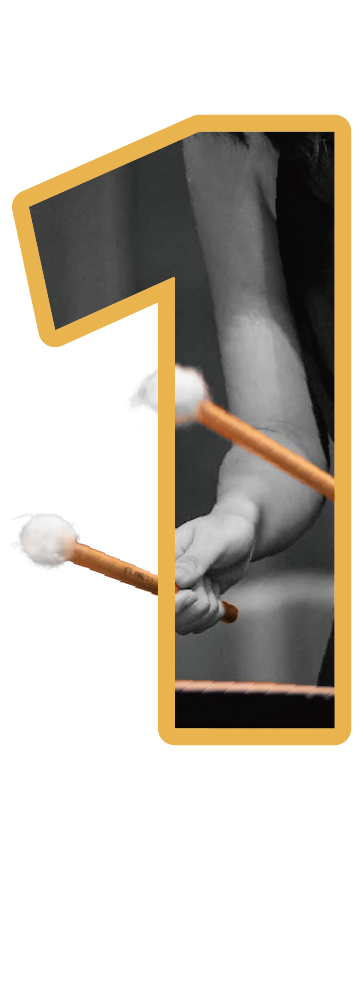
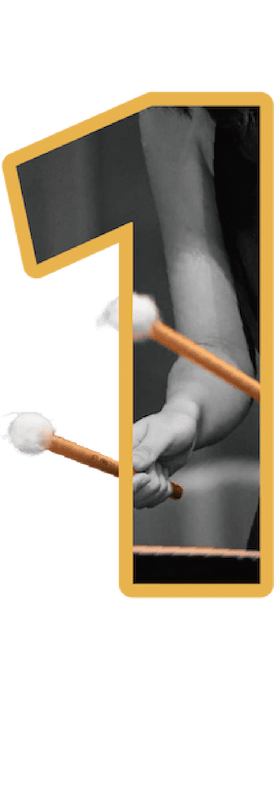
[feat] view and images

diff --git a/src/views/HomeView/HomeView.vue b/src/views/HomeView/HomeView.vue
@@ -18,7 +18,7 @@ const storeGoogle = useGoogle()
   <!-- loading -->
   <div
     v-show="storeGoogle.isFetching"
-    class="fixed left-0 top-0 w-screen h-screen flex justify-center items-center bg-gray-900 bg-opacity-80 backdrop-blur z-50"
+    class="fixed left-0 top-0 w-screen h-screen flex justify-center items-center bg-white bg-opacity-80 backdrop-blur z-50"
   >
     <div>
       <span class="loading loading-ring loading-lg"></span>
@@ -28,36 +28,64 @@ const storeGoogle = useGoogle()
   <div class="fixed z-[-1] left-0 top-0 w-screen h-screen">
     <img src="/background-sheet.jpg" class="object-cover h-full w-full opacity-5" alt="" />
   </div>
-  <div class="flex justify-center">
-    <main class="overflow-x-hidden relative max-w-lg">
-      <div class="mb-60">
-        <img src="/cover.jpg" alt="" />
+  <div class="flex justify-center overflow-x-hidden">
+    <main class="relative max-w-lg">
+      <div class="relative">
+        <div class="container my-40 px-4 flex flex-nowrap gap-2 relative">
+          <div class="w-[22.6%]">
+            <img class="aspect-[274/800]" src="/landing-images/main_head_title-1.png" alt="1" />
+          </div>
+          <div class="w-[33%]">
+            <img class="aspect-[400/800]" src="/landing-images/main_head_title-2.png" alt="2" />
+          </div>
+          <div class="w-[44.3%]">
+            <img class="aspect-[536/800]" src="/landing-images/main_head_title-3.png" alt="輯" />
+          </div>
+          <div class="absolute left-0 bottom-6 w-[43%] ml-[60px]">
+            <img src="/landing-images/web-demo_subtitle.svg" alt="" />
+          </div>
+        </div>
+        <div class="absolute right-0 top-0 w-[300px] translate-x-1/4 -translate-y-full">
+          <img class="" src="/landing-images/web-demo_circle-4.svg" alt="" />
+        </div>
+        <div class="absolute -right-28 top-1/2 w-[100px] -translate-y-1/2">
+          <img class="" src="/landing-images/web-demo_circle-3.svg" alt="" />
+        </div>
+        <div class="absolute -left-12 bottom-0 w-[300px] -translate-x-3/4 translate-y-3/4">
+          <img class="" src="/landing-images/web-demo_circle-1.svg" alt="" />
+        </div>
       </div>
-      <div class="container space-y-60">
+      <div class="container max-w-[100vw] space-y-60">
         <section :id="storeNav.getSection('intro').hash" class="space-y-24">
-          <div>
-            <p class="opacity-70 text-9xl text-gray-700 font-bold relative top-8 -left-4 z-10">
+          <div class="marquee-container">
+            <p
+              class="marquee-content opacity-70 text-9xl text-yellow11 font-bold relative top-8 z-10"
+            >
               Staff
             </p>
-            <h2 class="text-7xl font-bold italic text-gray-300 relative z-20">演出人員</h2>
+            <h2 class="text-7xl font-bold italic text-yellow11 relative z-20">演出人員</h2>
           </div>
           <SectionIntro />
         </section>
         <section :id="storeNav.getSection('repertoire').hash" class="space-y-24">
-          <div>
-            <p class="opacity-70 text-9xl text-gray-700 font-bold relative top-8 -left-4 z-10">
+          <div class="marquee-container">
+            <p
+              class="marquee-content opacity-70 text-9xl text-yellow11 font-bold relative top-8 z-10"
+            >
               Repertoire
             </p>
-            <h2 class="text-7xl font-bold italic text-gray-300 relative z-20">演出曲目</h2>
+            <h2 class="text-7xl font-bold italic text-yellow11 relative z-20">演出曲目</h2>
           </div>
           <SectionRepertoire />
         </section>
         <section :id="storeNav.getSection('about').hash" class="space-y-24">
-          <div>
-            <p class="opacity-70 text-9xl text-gray-700 font-bold relative top-8 -left-4 z-10">
+          <div class="marquee-container">
+            <p
+              class="marquee-content opacity-70 text-9xl text-yellow11 font-bold relative top-8 z-10"
+            >
               About
             </p>
-            <h2 class="text-7xl font-bold italic text-gray-300 relative z-20">關於我們</h2>
+            <h2 class="text-7xl font-bold italic text-yellow11 relative z-20">關於我們</h2>
           </div>
           <SectionAbout />
         </section>

diff --git a/src/views/HomeView/components/SectionAbout.vue b/src/views/HomeView/components/SectionAbout.vue
@@ -4,7 +4,7 @@ import IconInstagram from '/src/components/icon/IconInstagram.vue'
 </script>
 
 <template>
-  <div class="pb-24 space-y-8 text-gray-200">
+  <div class="pb-24 space-y-8 text-gray-800">
     <div>
       <img src="/people.jpg" class="w-full" alt="" />
     </div>
@@ -22,7 +22,7 @@ import IconInstagram from '/src/components/icon/IconInstagram.vue'
         十年流轉，團員屆數甚差二十屆次，但透過音樂的力量，讓年紀的距離在彼此的心中淡化。他們透過自由奔放的音符，在樂聲中編織出校友與學弟妹之間的共鳴，消除了跨世代交流的阻礙，讓每個樂曲添加了動人的色彩。
       </p>
     </div>
-    <div class="flex flex-col border-l border-white pl-4 text-lg space-y-2">
+    <div class="flex flex-col border-l border-yellow11 pl-4 text-lg space-y-2">
       <a class="gap-2" target="_blank" href="https://instagram.com/czjhawb/">
         <div class="flex gap-2">
           <IconInstagram width="30" height="30" />

diff --git a/src/views/HomeView/components/SectionIntro/components/Staff.vue b/src/views/HomeView/components/SectionIntro/components/Staff.vue
@@ -15,7 +15,7 @@ const helper = '*'
   <!-- 演出人員 -->
   <div class="space-y-12">
     <ul class="space-y-12">
-      <li v-for="(group, i) in staff" :key="i" class="space-y-2 border-l-4 border-white pl-4">
+      <li v-for="(group, i) in staff" :key="i" class="space-y-2 border-l-4 border-yellow11 pl-4">
         <div class="space-y-0">
           <h3 class="text-3xl font-bold">{{ group[0].instrument }}</h3>
           <p class="text-gray-400">{{ group[0]['樂器'] }}</p>
@@ -27,7 +27,7 @@ const helper = '*'
               <span>
                 {{ person['名稱'] }}
               </span>
-              <span class="text-gray-300 text-xs">
+              <span class="text-gray-400 text-xs">
                 {{ person['屆數'] === 0 ? helper : person['屆數'] }}
               </span>
             </div>

diff --git a/src/views/HomeView/components/SectionIntro/components/SpecialIntro.vue b/src/views/HomeView/components/SectionIntro/components/SpecialIntro.vue
@@ -21,12 +21,12 @@ const storeGoogle = useGoogle()
               <p class="font-thin">{{ intro['職稱'] }}</p>
               <h3 class="font-bold text-4xl">{{ intro['姓名'] }}</h3>
             </div>
-            <p class="italic text-gray-300 text-sm" v-if="intro.quote">
+            <p class="italic text-gray-400 text-sm" v-if="intro.quote">
               {{ intro.quote }}
             </p>
           </div>
         </div>
-        <div class="space-y-4 text-gray-200">
+        <div class="space-y-4 text-gray-800">
           <p v-for="p in intro['介紹']">{{ p }}</p>
           <div v-if="intro['姓名'] === '駱繹'" class="space-y-4">
             <span class="italic block"

diff --git a/src/views/HomeView/components/SectionRepertoire.vue b/src/views/HomeView/components/SectionRepertoire.vue
@@ -21,8 +21,8 @@ const runDown = computed(() => {
 <template>
   <div class="">
     <ul class="space-y-20">
-      <li v-for="item in runDown" :key="item.id" class="space-y-1 border-l-4 border-white pl-4">
-        <span class="text-gray-400 text-2xl">{{ item.order || '' }}</span>
+      <li v-for="item in runDown" :key="item.id" class="space-y-1 border-l-4 border-yellow11 pl-4">
+        <span class="text-yellow11 text-2xl">{{ item.order || '' }}</span>
         <h3 class="text-3xl font-bold">
           {{ item['曲目/活動'] }}
         </h3>

diff --git a/src/assets/main.css b/src/assets/main.css
@@ -9,3 +9,24 @@
     font-family: 'Noto Sans TC', sans-serif;
   }
 }
+
+.marquee-container {
+  @apply w-full;
+}
+
+.marquee-content {
+  @apply inline-block;
+  white-space: nowrap;
+  animation: marquee 8s linear infinite forwards;
+}
+
+@keyframes marquee {
+  0% {
+    left: 100%;
+    transform: translateX(0%);
+  }
+  100% {
+    left: 0;
+    transform: translateX(-100%);
+  }
+}

diff --git a/src/components/BaseNavbar.vue b/src/components/BaseNavbar.vue
@@ -37,7 +37,7 @@ watch(height, () => {
       <div class="">
         <button class="btn btn-ghost normal-case text-xl px-2" @click="onClickLogo">
           <div class="h-full py-2 w-[30px]">
-            <img src="/logo.svg" class="w-full h-full" alt="" />
+            <img src="/logo.svg" class="w-full h-full" alt="CZJHAWB Logo" />
           </div>
         </button>
       </div>

diff --git a/tailwind.config.js b/tailwind.config.js
@@ -5,10 +5,14 @@ module.exports = {
       padding: '1rem',
       center: true
     },
-    extend: {}
+    extend: {
+      colors: {
+        yellow11: '#e8b34d'
+      }
+    }
   },
   daisyui: {
-    themes: ['dracula']
+    themes: ['light']
   },
   plugins: [require('daisyui')]
 }
